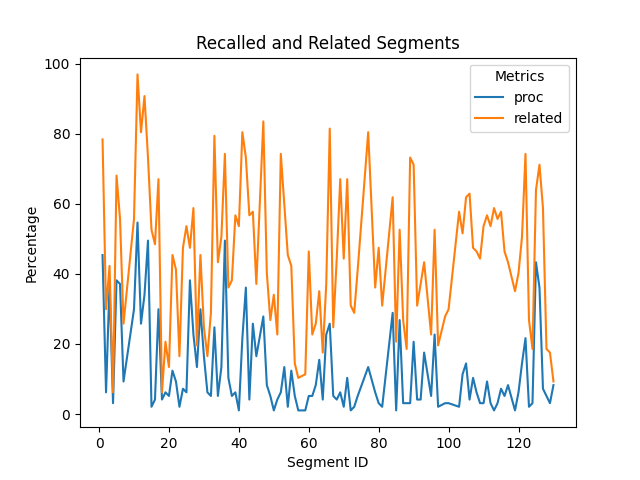
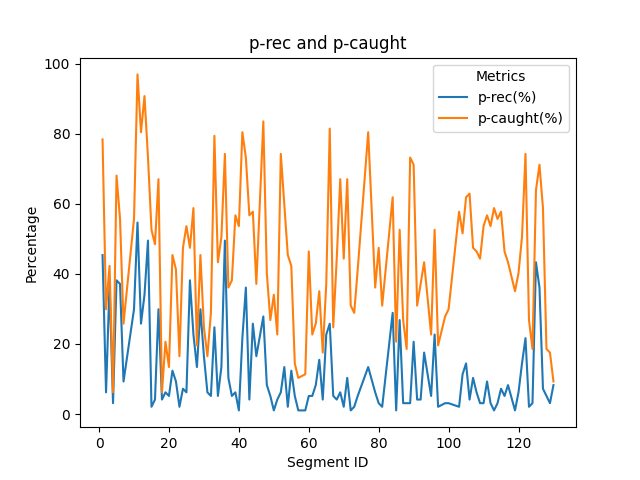
cosmetics

Changed region(s): [[0.3125, 0.0625, 0.7188, 0.125], [0.6875, 0.125, 0.875, 0.2812]]

diff --git a/7e71ecbb7830fd69dc78ba1369a452129b88e980fdbb6d63285fbb8f912f/index.html b/7e71ecbb7830fd69dc78ba1369a452129b88e980fdbb6d63285fbb8f912f/index.html
@@ -65,7 +65,7 @@
             </ul>
             <ul> <h4>Probability of Recall</h4>
                 <li>
-                    <a href="recalled_and_related_segments.html">Recalled and Related Segments</a> - Probability of recall
+                    <a href="recalled_and_related_segments.html">P-rec and P-caught</a> - Probability of recall
                     for each segment and probability to be mapped to.
                 </li>
             <li><a href="proc_vs_normalized_fan_out.html">Probability of Recall vs Normalized Fanout </a></li>
